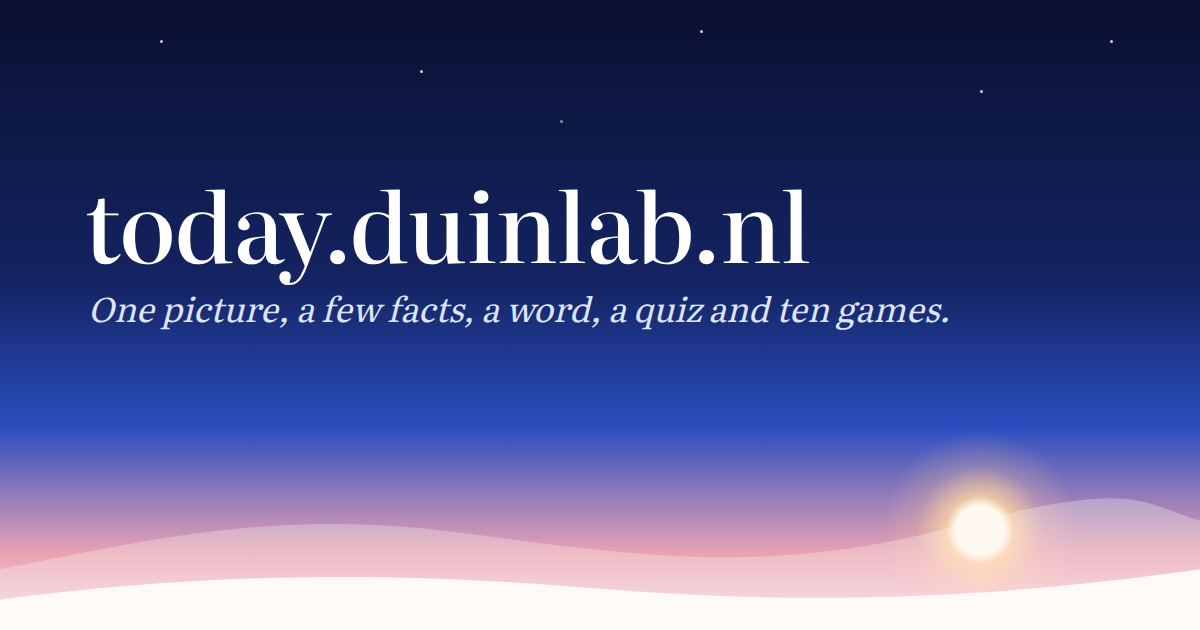
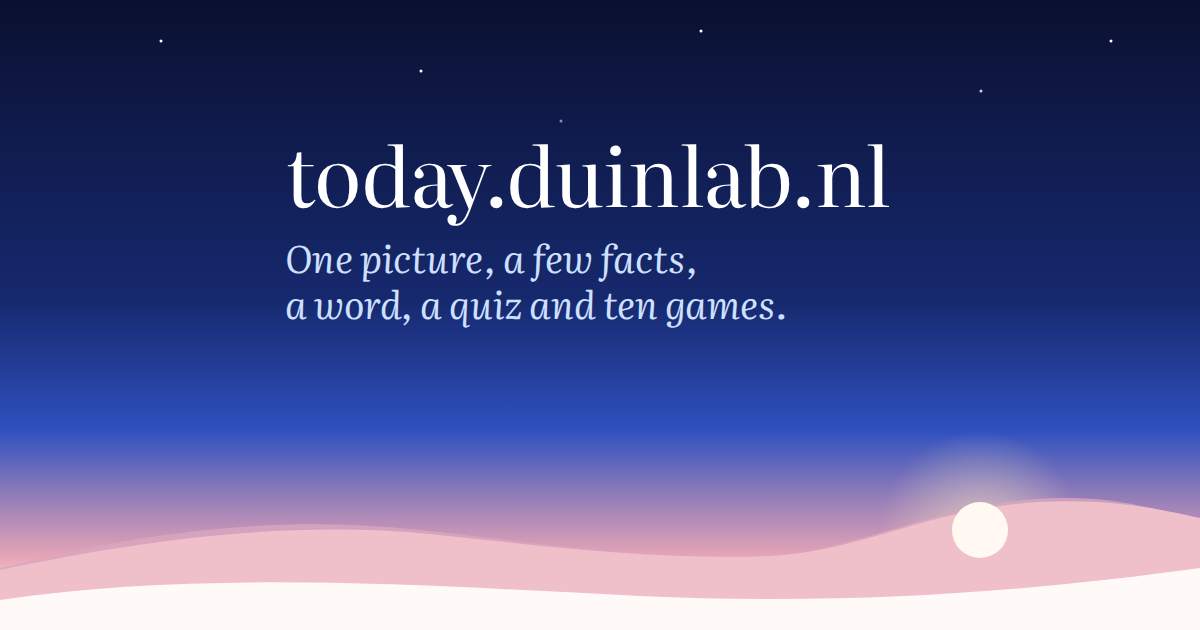
fix: keep the social card's title and line inside the centred crop
Some link previews crop the 1200x630 card to the centred 630 px square, which cut the left-aligned title to "y.duinlab.nl" and clipped the line under it. The card had no source file either.

- Add docs/og-card.html as the source of public/og.png, with the title and a two-line description in the centred 630 px (description at 38 px); the night sky and dunes stay.
- Document the render command in the README.
- Make og:image:alt state the card's text, and note the fix in the changelog.

diff --git a/docs/og-card.html b/docs/og-card.html
@@ -1,0 +1,35 @@
+<!doctype html>
+<html lang="en">
+<head>
+<meta charset="utf-8">
+<title>today.duinlab.nl social card</title>
+<!-- Source of public/og.png. Render: see README, "Develop". -->
+<style>
+  @font-face { font-family: Literata; src: url("../public/fonts/literata.woff2") format("woff2"); font-weight: 200 900; font-style: normal; }
+  @font-face { font-family: Literata; src: url("../public/fonts/literata-italic.woff2") format("woff2"); font-weight: 200 900; font-style: italic; }
+  * { box-sizing: border-box; margin: 0; }
+  html, body { width: 1200px; height: 630px; overflow: hidden; }
+  body { position: relative; background: linear-gradient(#0a1030 0, #16296e 300px, #2f50bf 430px, #987fb8 500px, #eaa7b6 560px, #fffaf7 600px); color: #fff; }
+  svg { position: absolute; inset: 0; }
+  /* Everything that carries meaning sits in the centred 630 px column; the sun and dunes may crop. */
+  main { position: absolute; left: 285px; top: 130px; width: 630px; }
+  h1 { font: 400 82px/1 Literata, Georgia, serif; letter-spacing: -0.02em; white-space: nowrap; }
+  p { margin-top: 22px; font: italic 400 38px/1.22 Literata, Georgia, serif; color: #cfe0ff; }
+</style>
+</head>
+<body>
+<svg width="1200" height="630" viewBox="0 0 1200 630" aria-hidden="true">
+  <defs><radialGradient id="glow"><stop offset="0" stop-color="#ffe9c4" stop-opacity=".55"/><stop offset="1" stop-color="#ffe9c4" stop-opacity="0"/></radialGradient></defs>
+  <g fill="#fff"><circle cx="161" cy="41" r="1.5"/><circle cx="421" cy="71" r="1.5"/><circle cx="701" cy="31" r="1.5"/><circle cx="1111" cy="41" r="1.5"/><circle cx="981" cy="91" r="1.5" opacity=".8"/><circle cx="561" cy="121" r="1.5" opacity=".5"/></g>
+  <circle cx="980" cy="530" r="100" fill="url(#glow)"/>
+  <path d="M0 568 C150 530 280 515 420 530 C560 545 650 560 760 556 C860 552 940 500 1060 498 C1130 497 1170 515 1200 520 V630 H0Z" fill="#d9a6bf" opacity=".8"/>
+  <path d="M0 570 C140 540 290 520 430 534 C560 548 660 560 770 556 C860 552 930 508 1040 502 C1120 498 1170 512 1200 518 V630 H0Z" fill="#f0c0ca"/>
+  <circle cx="980" cy="530" r="28" fill="#fff9f2"/>
+  <path d="M0 600 C200 570 420 585 640 596 C860 606 1040 590 1200 568 V630 H0Z" fill="#fffaf7"/>
+</svg>
+<main>
+  <h1>today.duinlab.nl</h1>
+  <p>One picture, a few facts,<br>a word, a quiz and ten games.</p>
+</main>
+</body>
+</html>

diff --git a/README.md b/README.md
@@ -77,6 +77,13 @@ against a production build, including axe scans of today, yesterday, about and 4
 reads every source from a local fixture server ([`e2e/fixture-server.mjs`](e2e/fixture-server.mjs))
 through the `FIXTURE_ORIGIN` variable, so the tests run offline and give the same page every time.
 
+The social card `public/og.png` is rendered from `docs/og-card.html`. Keep its text inside the centred 630 px
+column, because some link previews crop to it. After editing, run:
+
+```sh
+pnpm exec playwright screenshot --viewport-size=1200,630 "file://$PWD/docs/og-card.html" public/og.png
+```
+
 For the NASA slide, put a line `NASA_API_KEY=<your key>` in `.dev.vars` for local runs. In
 production it is a Worker secret (`pnpm wrangler secret put NASA_API_KEY`). Without a key the
 strip simply has no NASA slide. The tests don't need it.

diff --git a/CHANGELOG.md b/CHANGELOG.md
@@ -5,6 +5,10 @@ The format follows [Keep a Changelog](https://keepachangelog.com/en/1.1.0/).
 
 ## [Unreleased]
 
+### Fixed
+
+- The social card keeps its title and line inside the centred crop that some link previews apply.
+
 ## [0.1.0] - 2026-11-10
 
 ### Added
